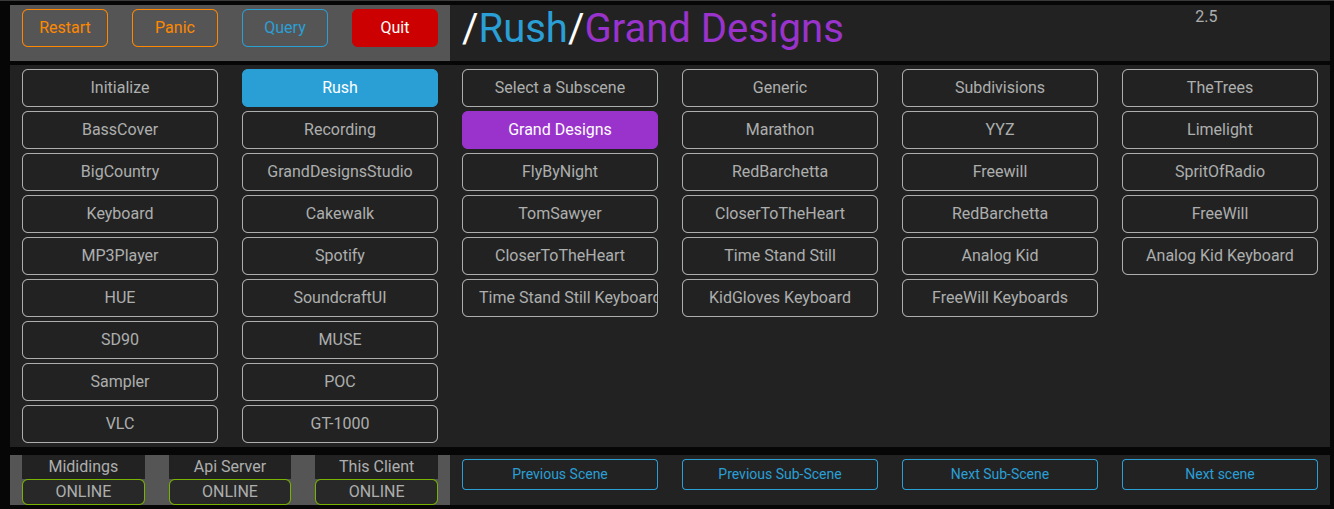
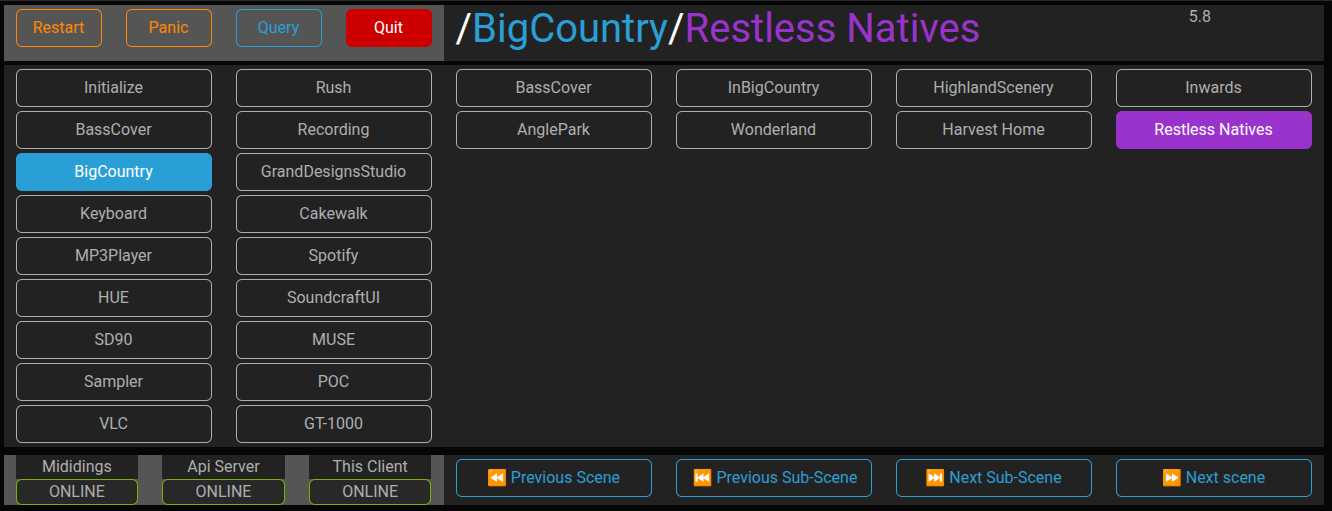
refactor: Update UI and button labels for clarity

diff --git a/src/templates/ui.html b/src/templates/ui.html
@@ -41,9 +41,9 @@
 
     <!-- Content -->
     <div class="row mb-1">
-        <!-- Liste de scenes -->
+        <!-- List of scenes -->
         <div id="scenes" class="col-md-4 bg-light"> </div>
-        <!-- Sous-scenes de la scene courante -->
+        <!-- Sub-scene of the current scene -->
         <div id="subscenes" class="col-md-8 bg-light"> </div>
     </div>
 
@@ -53,7 +53,6 @@
         <!-- Application status console -->
         <div class="col-md-4 bg-secondary">
             <!-- Console header -->
-
             <div class="row">
                 <div class="bg-secondary col-md-4 text-center">
                     <div class="bg-light">
@@ -74,10 +73,13 @@
 
             <!-- Services state -->
             <div id="console" class="row">
+                <!-- State from OSC message -->
                 <div id="mididings-state" class="bg-secondary col-md-4 text-center">
                 </div>
+                <!-- Dummy TODO -->
                 <div id="server-state" class="bg-secondary col-md-4 text-center">
                 </div>
+                <!-- Dummy TODO -->
                 <div id="client-state" class="bg-secondary col-md-4 text-center">
                 </div>
             </div>
@@ -87,20 +89,20 @@
         <div class="col-md-8 bg-light">
             <div class="row mt-1">
                 <div class="col-md-3">
-                    <input class="w-100 btn btn-outline-primary btn-sm" type="button" id="prev_scene"
-                        value="Previous Scene">
+                    <input class="w-100 btn btn-outline-primary" type="button" id="prev_scene"
+                        value="⏪ Previous Scene">
                 </div>
                 <div class="col-md-3">
-                    <input class="w-100 btn btn-outline-primary btn-sm" type="button" id="prev_subscene"
-                        value="Previous Sub-Scene">
+                    <input class="w-100 btn btn-outline-primary" type="button" id="prev_subscene"
+                        value="⏮ Previous Sub-Scene">
                 </div>
                 <div class="col-md-3">
-                    <input class="w-100 btn btn-outline-primary btn-sm" type="button" id="next_subscene"
-                        value="Next Sub-Scene">
+                    <input class="w-100 btn btn-outline-primary" type="button" id="next_subscene"
+                        value="⏭ Next Sub-Scene">
                 </div>
                 <div class="col-md-3">
-                    <input class="w-100 btn btn-outline-primary btn-sm" type="button" id="next_scene"
-                        value="Next scene">
+                    <input class="w-100 btn btn-outline-primary" type="button" id="next_scene"
+                        value="⏩ Next scene">
                 </div>
             </div>
         </div>
@@ -166,11 +168,11 @@
                     var content = "";
                     var subscenes = [];
 
-                    // Reset content
-                    $("#scenes").text("");                  // Clear scene content 
-                    $('#subscenes').text("");               // Clear subscenes content
-                    $('#current_subscene_name').text(".");  // Default value
-                    $('#current_subscene').text("x");       // Default value
+                    // Reset view
+                    $("#scenes").text("");
+                    $('#subscenes').text("");
+                    $('#current_subscene_name').text("...");
+                    $('#current_subscene').text("0");
 
                     // Scenes
                     for (let index in context.items) {
@@ -208,7 +210,6 @@
                     count = 0;
                     content = "";
 
-                    $('#current_subscene_name').text("...");
                     for (let index in subscenes) {
 
                         var scene = subscenes[index];
